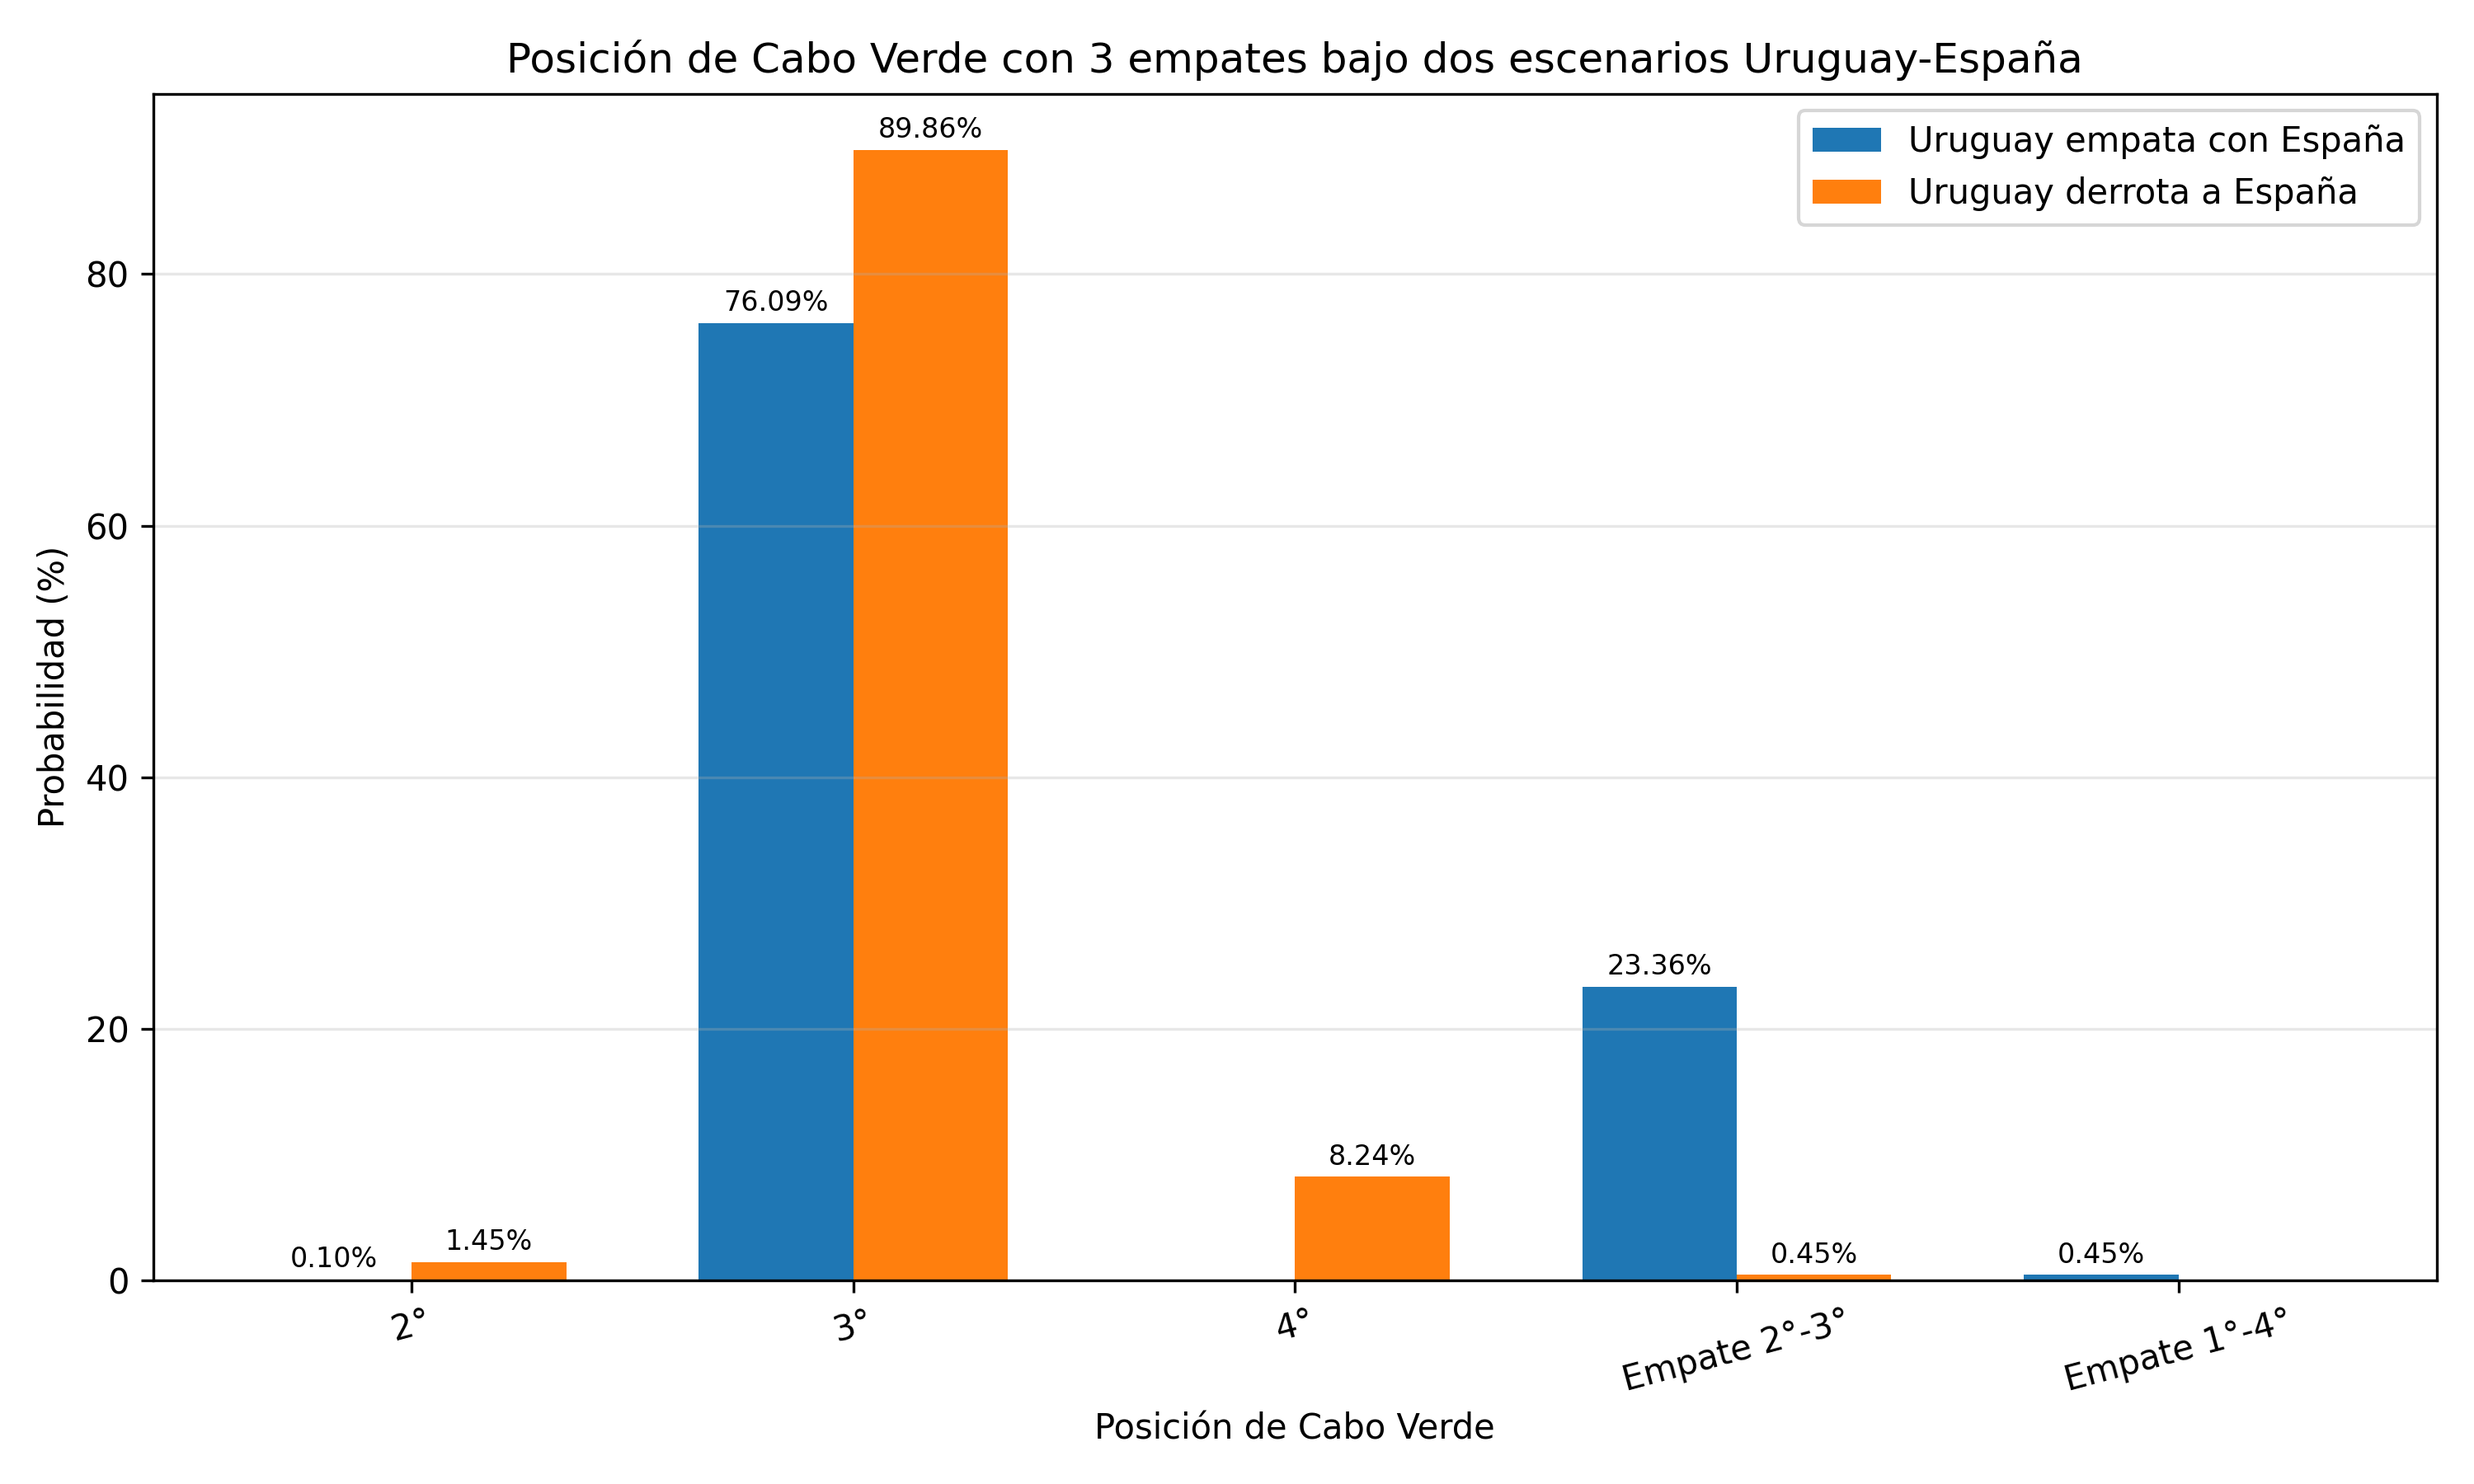
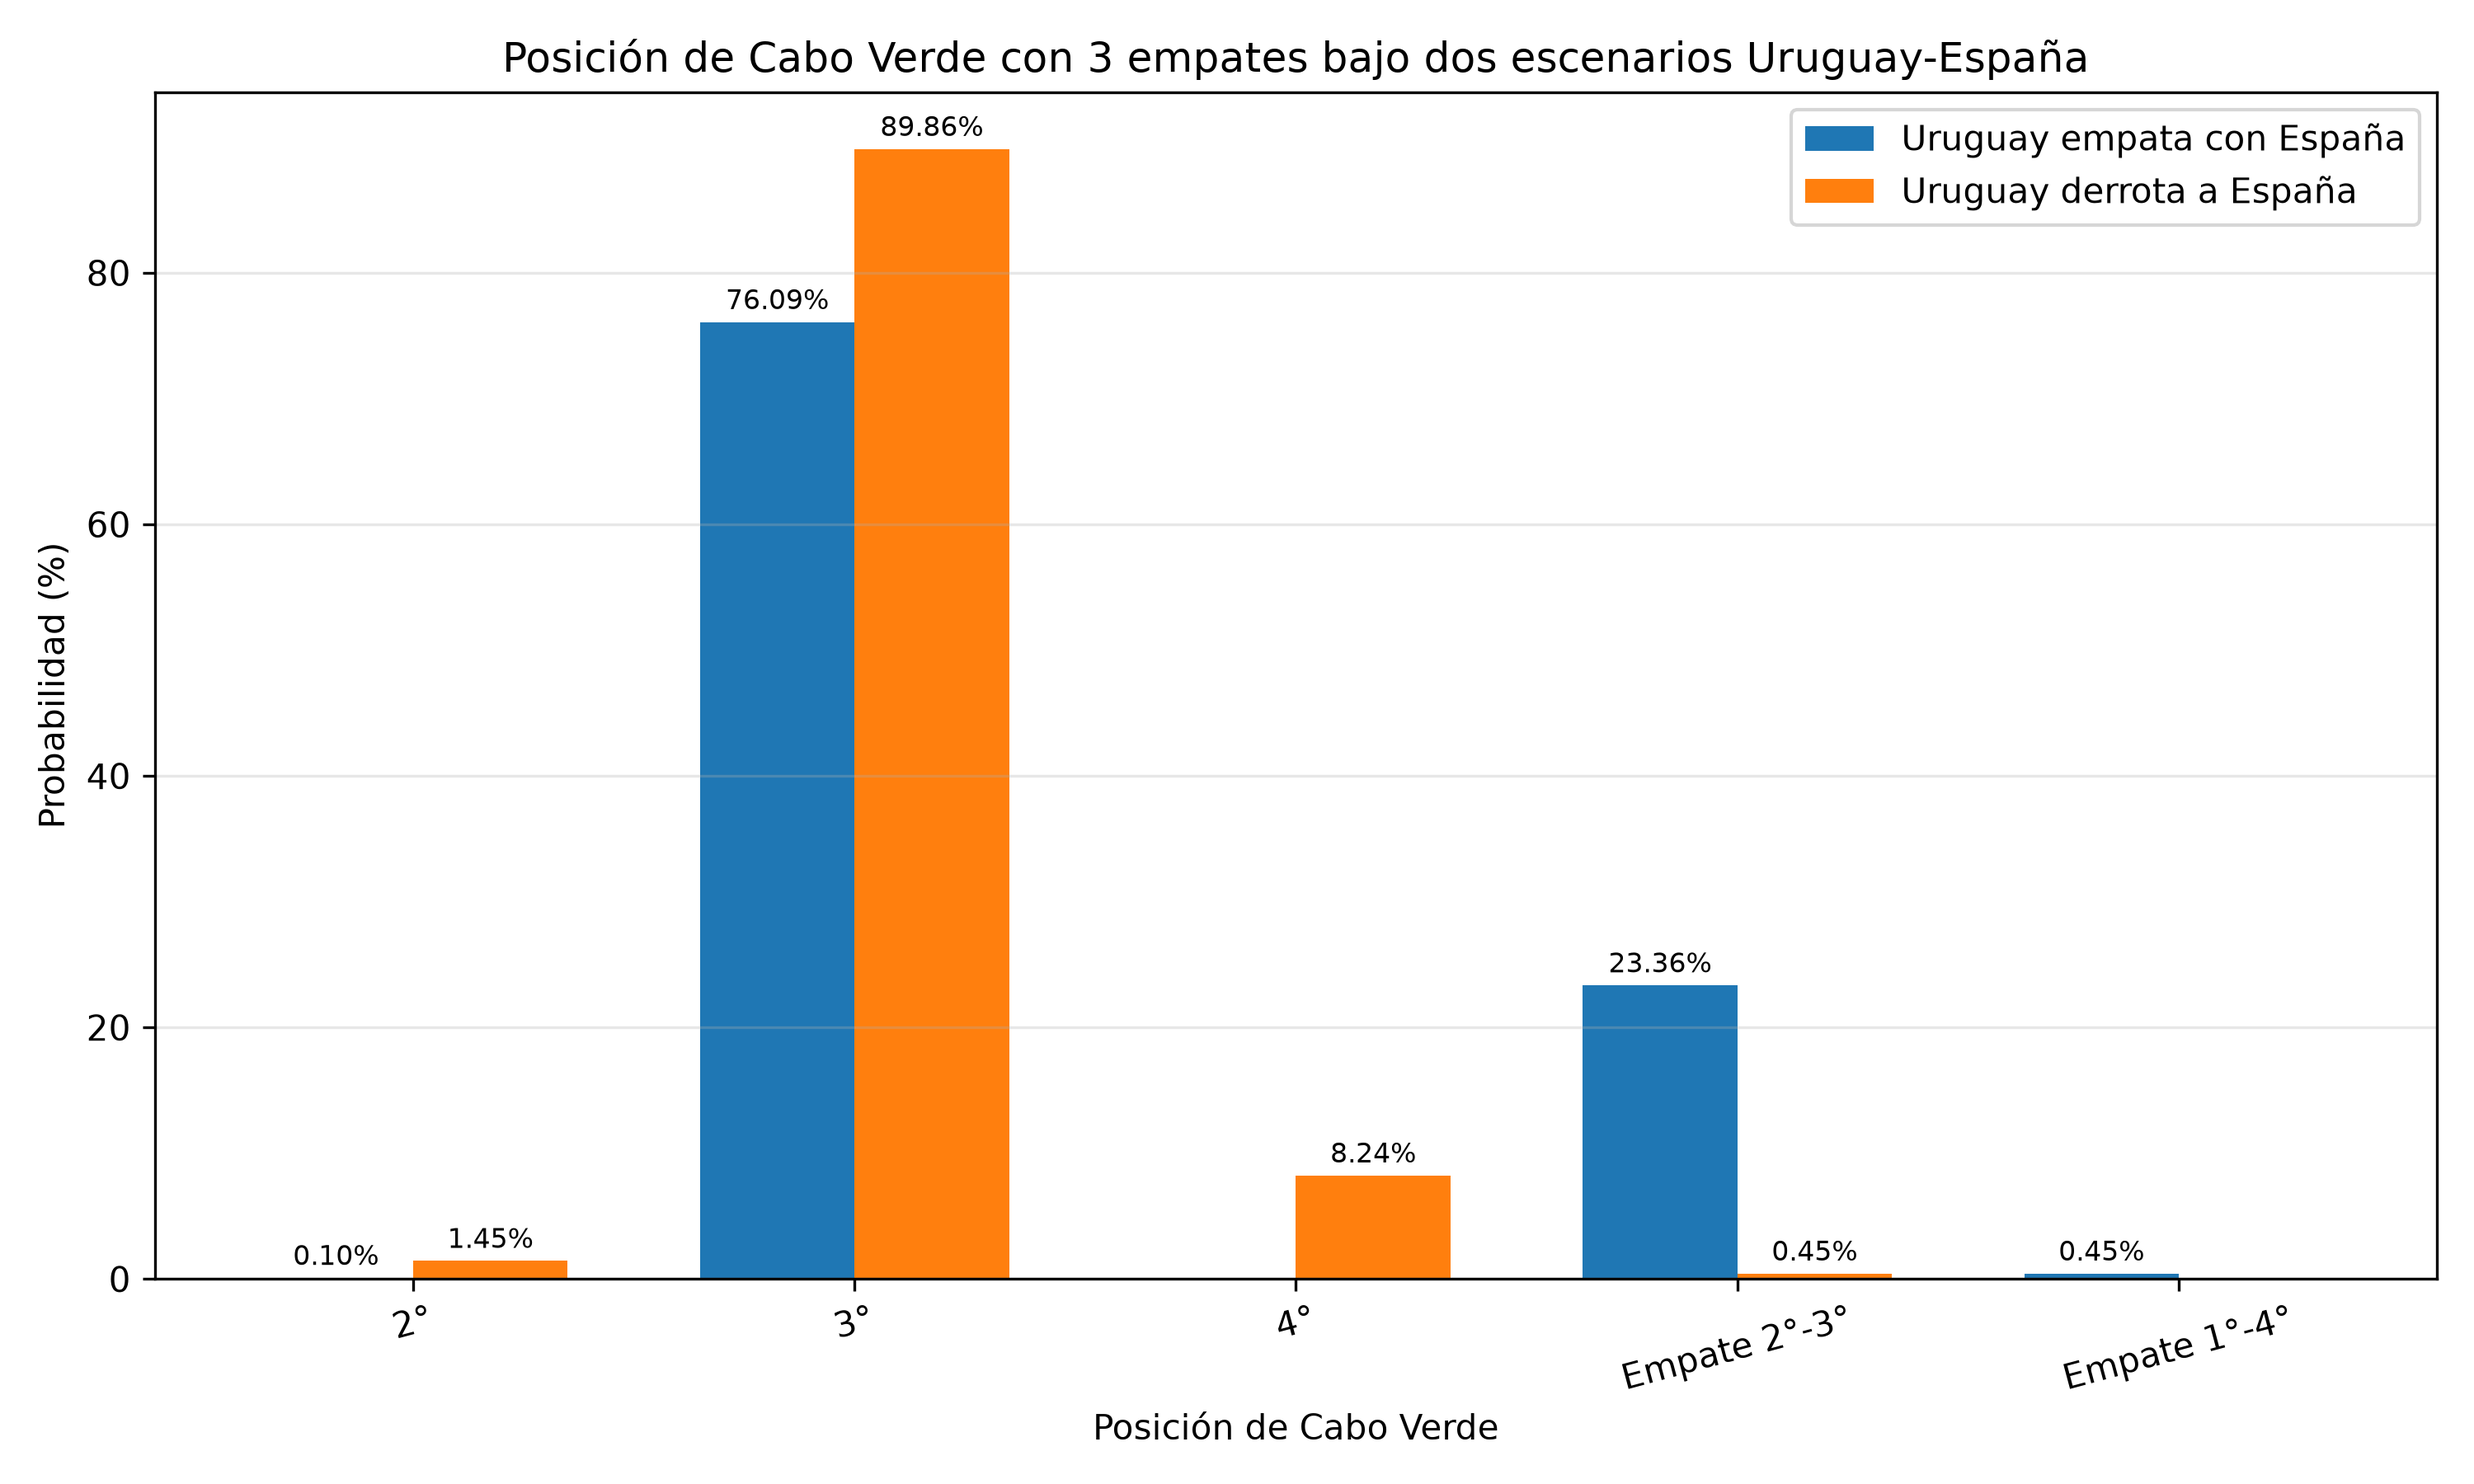
Finalizada integracion de simulador_mundial.py y ejecucion de escenarios_mundial.py

diff --git a/2.4.Cabo Verde/simulador_mundial.py b/2.4.Cabo Verde/simulador_mundial.py
@@ -1,0 +1,112 @@
+import os
+import random
+import pandas as pd
+from simulacion_base import simular_partido
+
+
+# DÍA 7 - INTEGRANTE 1: SIMULADOR GENERAL INCONDICIONAL DEL GRUPO MUNDIALISTA
+EQUIPOS_GRUPO = ["Cabo Verde", "Uruguay", "España", "Arabia Saudita"]
+
+
+def cargar_elo_mundial(
+    ruta="2.4.Cabo Verde/Data/elo_limpio.csv", ruta_alt="Data/elo_limpio.csv"
+):
+    """Carga los ratings Elo verificando la presencia de los 4 equipos del grupo."""
+    path = ruta if os.path.exists(ruta) else ruta_alt
+    if not os.path.exists(path):
+        raise FileNotFoundError(f"No se encontró el archivo de Elo en: {path}")
+
+    df_elo = pd.read_csv(path)
+    dict_elo = dict(zip(df_elo["equipo"], df_elo["elo_rating"]))
+
+    faltantes = [eq for eq in EQUIPOS_GRUPO if eq not in dict_elo]
+    if faltantes:
+        raise ValueError(
+            f"Faltan ratings Elo para los siguientes equipos: {faltantes}"
+        )
+
+    return {eq: dict_elo[eq] for eq in EQUIPOS_GRUPO}
+
+
+def crear_tabla():
+    """Inicializa la estructura de la tabla de posiciones."""
+    return {
+        eq: {"PJ": 0, "G": 0, "E": 0, "P": 0, "Pts": 0} for eq in EQUIPOS_GRUPO
+    }
+
+
+def actualizar_tabla(tabla, equipo_a, equipo_b, pts_a, pts_b):
+    """Actualiza la tabla con los puntos y estadísticas de un partido."""
+    tabla[equipo_a]["PJ"] += 1
+    tabla[equipo_b]["PJ"] += 1
+    tabla[equipo_a]["Pts"] += pts_a
+    tabla[equipo_b]["Pts"] += pts_b
+
+    if pts_a == 3:
+        tabla[equipo_a]["G"] += 1
+        tabla[equipo_b]["P"] += 1
+    elif pts_b == 3:
+        tabla[equipo_b]["G"] += 1
+        tabla[equipo_a]["P"] += 1
+    else:
+        tabla[equipo_a]["E"] += 1
+        tabla[equipo_b]["E"] += 1
+
+
+def simular_grupo_mundial(elo_dict, semilla=None):
+    """Simula los 6 partidos incondicionales del grupo mundialista."""
+    if semilla is not None:
+        random.seed(semilla)
+
+    tabla = crear_tabla()
+    partidos = [
+        ("Cabo Verde", "Uruguay"),
+        ("Cabo Verde", "España"),
+        ("Cabo Verde", "Arabia Saudita"),
+        ("Uruguay", "España"),
+        ("Uruguay", "Arabia Saudita"),
+        ("España", "Arabia Saudita"),
+    ]
+
+    resultados_partidos = []
+    for eq_a, eq_b in partidos:
+        pts_a, pts_b, res_str = simular_partido(eq_a, eq_b, elo_dict)
+        actualizar_tabla(tabla, eq_a, eq_b, pts_a, pts_b)
+        resultados_partidos.append(f"{eq_a} vs {eq_b} -> {res_str}")
+
+    return tabla, resultados_partidos
+
+
+def convertir_tabla_dataframe(tabla):
+    """Convierte la tabla a DataFrame y la ordena por Puntos y Victorias."""
+    df_tabla = pd.DataFrame.from_dict(tabla, orient="index")
+    df_tabla.index.name = "Equipo"
+    return df_tabla.sort_values(
+        by=["Pts", "G"], ascending=[False, False]
+    ).reset_index()
+
+
+# EJECUCIÓN PRINCIPAL
+if __name__ == "__main__":
+    print("SIMULADOR GENERAL DEL GRUPO MUNDIALISTA")
+
+    try:
+        elo_dict = cargar_elo_mundial()
+        print("\nRatings Elo del Grupo Mundialista cargados:")
+        for equipo, rating in elo_dict.items():
+            print(f"   • {equipo:<15}: {rating} Elo")
+
+        # Simulación única de prueba
+        tabla, partidos_res = simular_grupo_mundial(elo_dict, semilla=42)
+
+        print("\nResultados de los 6 Partidos Simulados (Semilla 42):")
+        for p in partidos_res:
+            print(f"   {p}")
+
+        df_final = convertir_tabla_dataframe(tabla)
+
+        print("\nTabla Final del Grupo:")
+        print(df_final.to_string(index=False))
+
+    except Exception as e:
+        print(f"\nError durante la ejecución: {e}")
